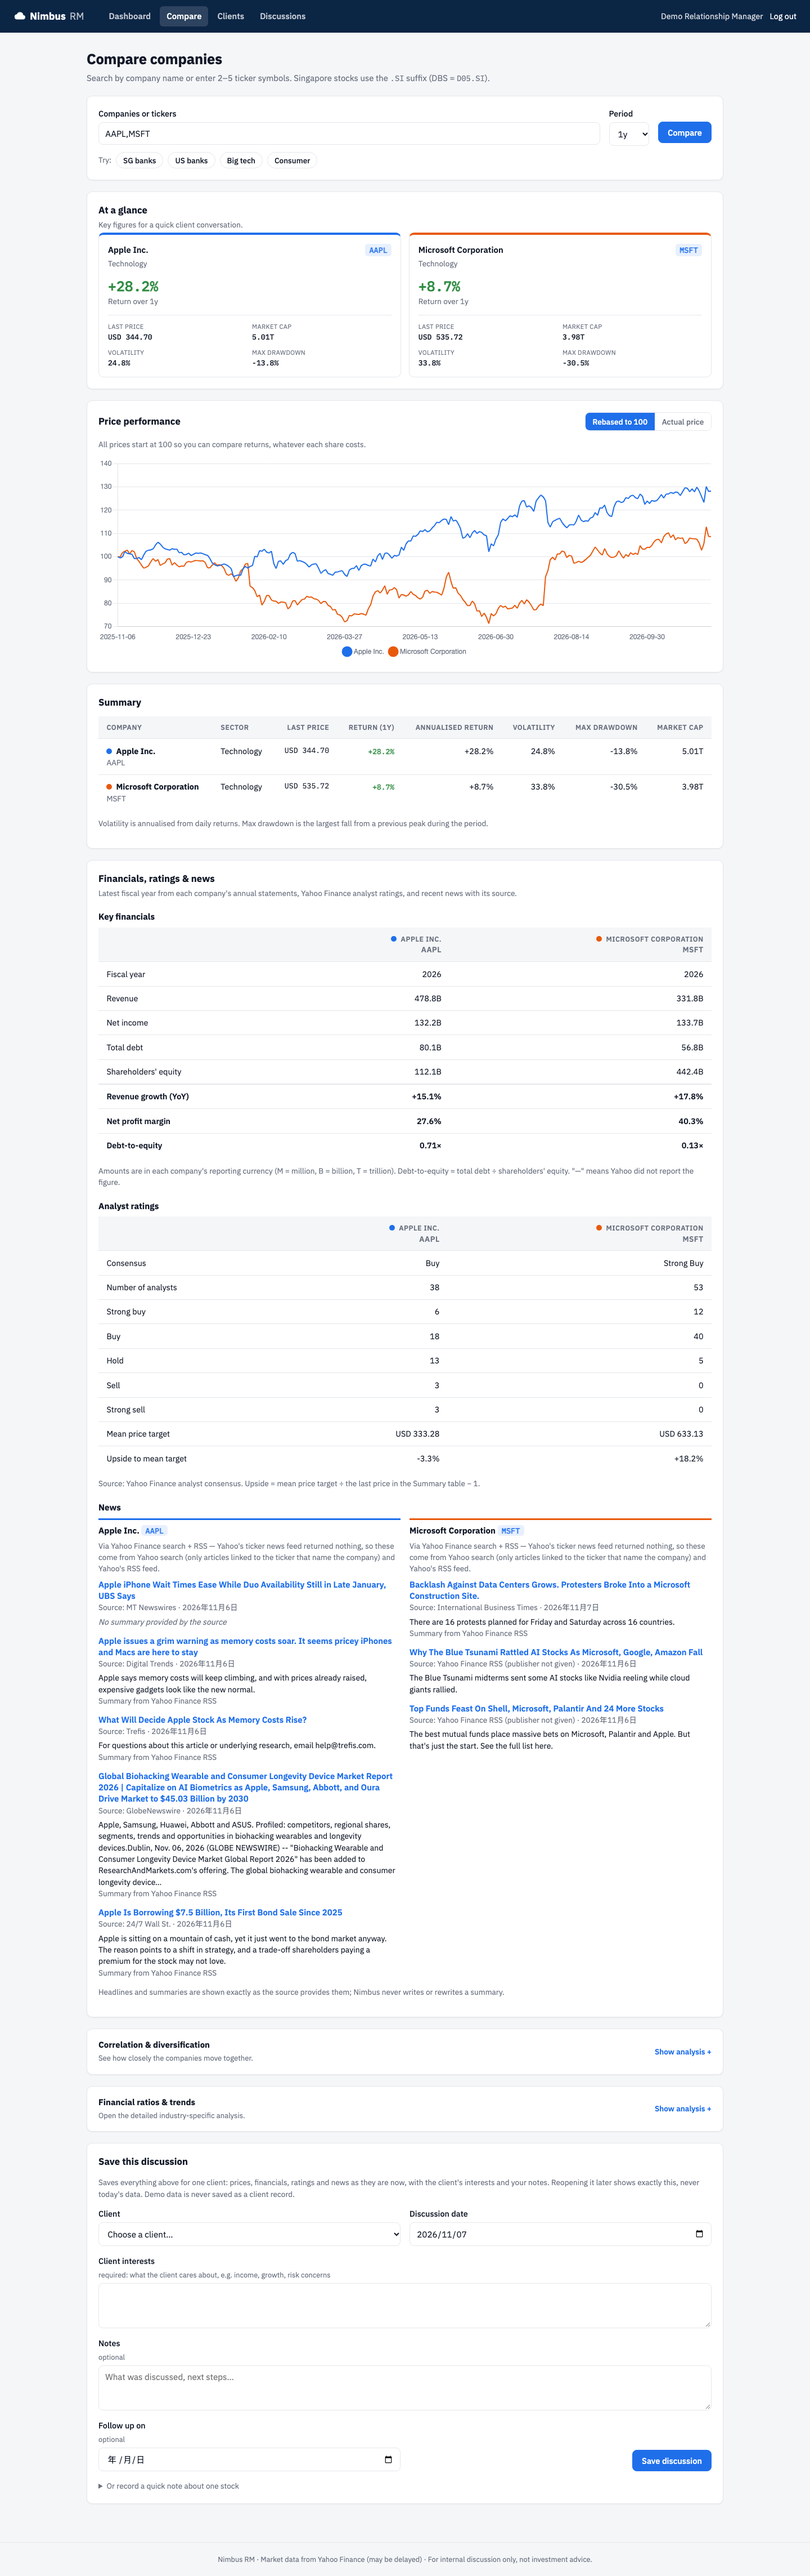
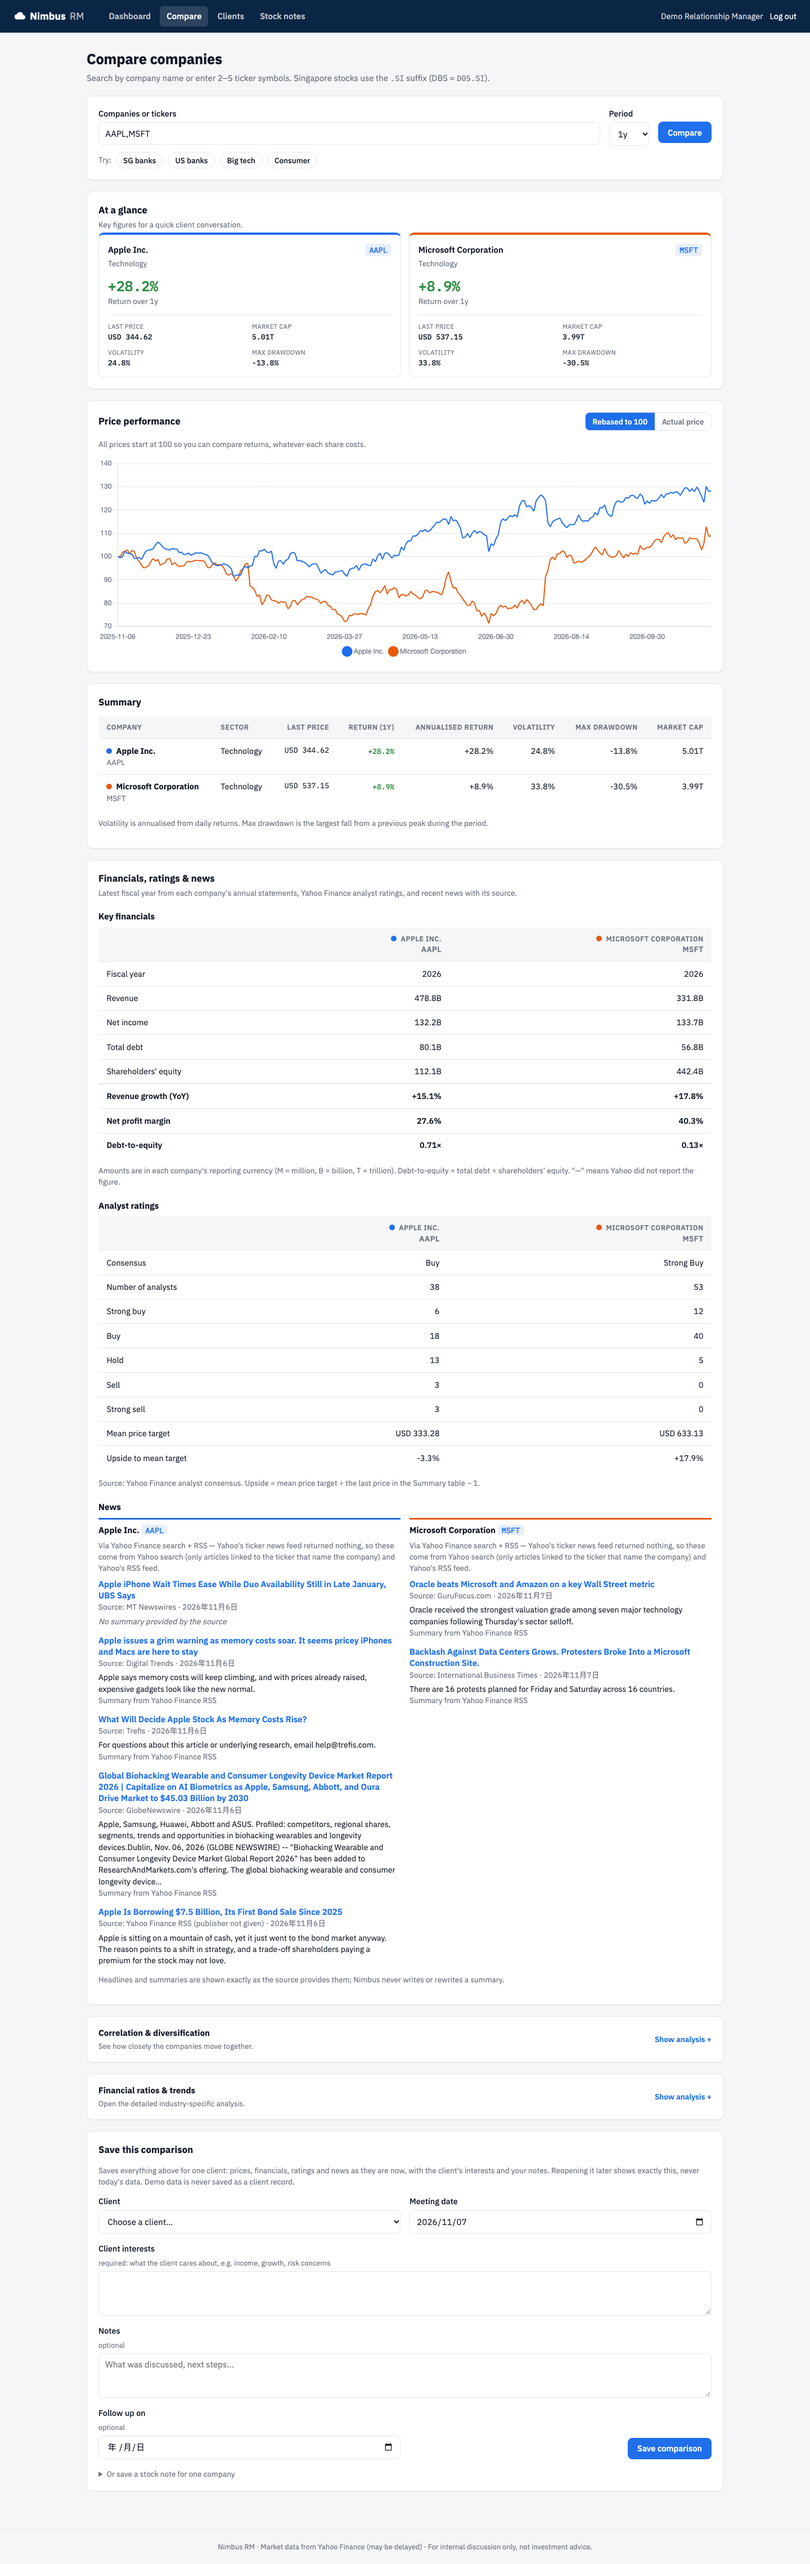
Clarify comparisons and stock notes terminology

diff --git a/app/templates/client_detail.html b/app/templates/client_detail.html
@@ -14,19 +14,19 @@
     {% if tickers|length >= 2 %}
       <a class="btn" href="{{ url_for('main.compare', tickers=tickers[:5]|join(',')) }}">Compare discussed stocks</a>
     {% endif %}
-    <a class="btn" href="{{ url_for('main.snapshot_new', client_id=client.id) }}">+ Discussion</a>
+    <a class="btn" href="{{ url_for('main.snapshot_new', client_id=client.id) }}">+ Stock note</a>
   </div>
 </div>
 
 <section class="card">
   <div class="section-head">
-    <h2>Saved discussions</h2>
+    <h2>Saved comparisons</h2>
     <a class="btn" href="{{ url_for('main.compare') }}">+ New comparison</a>
   </div>
   {% if client.discussions %}
   <div class="table-wrap">
     <table class="table">
-      <thead><tr><th>Date</th><th>Companies (price at discussion)</th><th>Client interests</th><th></th></tr></thead>
+      <thead><tr><th>Date</th><th>Companies (price at meeting)</th><th>Client interests</th><th></th></tr></thead>
       <tbody>
       {% for d in client.discussions %}
         <tr>
@@ -41,14 +41,14 @@
     </table>
   </div>
   {% else %}
-  <p class="muted">No saved discussions yet. Compare two or more companies and use "Save this discussion".</p>
+  <p class="muted">No saved comparisons yet. Compare two or more companies and use "Save this comparison".</p>
   {% endif %}
 </section>
 
 {% if client.snapshots %}
 <section class="card">
-  <h2>Discussions</h2>
-  <p class="muted small">Discussion compares the latest market price with the price when you spoke to the client — a quick talking point for the follow-up.</p>
+  <h2>Stock notes</h2>
+  <p class="muted small">Each note compares the latest market price with the price recorded for the client — a quick talking point for the follow-up.</p>
   <ol class="timeline">
   {% for s in client.snapshots %}
     {% set now = prices.get(s.ticker) %}
@@ -66,7 +66,7 @@
           {% if now %}
             <span>Now <b class="mono">{{ s.currency }} {{ now|money }}</b></span>
             {% set chg = (now / (s.price_at_discussion|float) - 1) %}
-            <span class="chg {{ 'up' if chg >= 0 else 'down' }}">{{ chg|pct(signed=True) }} since discussion</span>
+            <span class="chg {{ 'up' if chg >= 0 else 'down' }}">{{ chg|pct(signed=True) }} since recorded</span>
           {% endif %}
         </div>
         {% if s.notes %}<p class="notes">{{ s.notes }}</p>{% endif %}
@@ -75,7 +75,7 @@
           {% if s.follow_up_on %}<span class="follow {{ 'overdue' if s.follow_up_on < today }}">Follow up {{ s.follow_up_on.strftime('%d %b %Y') }}</span>{% endif %}
           <span class="spacer"></span>
           <a href="{{ url_for('main.snapshot_edit', snapshot_id=s.id) }}">Edit</a>
-          <form method="post" action="{{ url_for('main.snapshot_delete', snapshot_id=s.id) }}" onsubmit="return confirm('Delete this discussion?')">
+          <form method="post" action="{{ url_for('main.snapshot_delete', snapshot_id=s.id) }}" onsubmit="return confirm('Delete this stock note?')">
             <input type="hidden" name="_csrf" value="{{ csrf_token() }}">
             <button class="link danger">Delete</button>
           </form>
@@ -88,7 +88,7 @@
 {% endif %}
 
 <form method="post" action="{{ url_for('main.client_delete', client_id=client.id) }}" class="danger-zone"
-      onsubmit="return confirm('Delete {{ client.name }} and all their discussion records? This cannot be undone.')">
+      onsubmit="return confirm('Delete {{ client.name }} and all their saved comparisons and stock notes? This cannot be undone.')">
   <input type="hidden" name="_csrf" value="{{ csrf_token() }}">
   <button class="link danger">Delete this client</button>
 </form>

diff --git a/app/templates/discussion_detail.html b/app/templates/discussion_detail.html
@@ -1,9 +1,9 @@
 {% extends "base.html" %}
-{% block title %}Discussion with {{ d.client.name }}{% endblock %}
+{% block title %}Comparison for {{ d.client.name }}{% endblock %}
 {% block content %}
 <div class="page-head">
   <div>
-    <p class="crumb"><a href="{{ url_for('main.discussions') }}">Discussions</a> /</p>
+    <p class="crumb"><a href="{{ url_for('main.discussions') }}">Saved comparisons</a> /</p>
     <h1>{{ d.client.name }} · {{ d.discussed_on.strftime('%d %b %Y') }}</h1>
     <p class="muted"><a class="mono" href="{{ url_for('main.client_detail', client_id=d.client_id) }}">{{ d.client.client_code }}</a>
       · {{ d.companies | map(attribute='ticker') | join(', ') }} · period {{ d.period }}</p>
@@ -20,10 +20,10 @@
 </div>
 
 <section class="card">
-  <h2>Discussion record</h2>
+  <h2>Comparison record</h2>
   <dl class="record">
     <dt>Client</dt><dd>{{ d.client.label }}</dd>
-    <dt>Discussion date</dt><dd>{{ d.discussed_on.strftime('%d %b %Y') }}</dd>
+    <dt>Meeting date</dt><dd>{{ d.discussed_on.strftime('%d %b %Y') }}</dd>
     <dt>Client interests</dt><dd class="prewrap">{{ d.client_interests }}</dd>
     {% if d.notes %}<dt>Notes</dt><dd class="prewrap">{{ d.notes }}</dd>{% endif %}
     {% if d.follow_up_on %}<dt>Follow up on</dt><dd>{{ d.follow_up_on.strftime('%d %b %Y') }}</dd>{% endif %}
@@ -31,7 +31,7 @@
   </dl>
   <div class="table-wrap">
     <table class="table">
-      <thead><tr><th>Company</th><th class="num">Price at discussion</th><th>Price date</th>
+      <thead><tr><th>Company</th><th class="num">Price at meeting</th><th>Price date</th>
         <th class="num">Revenue growth</th><th class="num">Net margin</th><th class="num">Debt-to-equity</th><th>Fiscal year</th></tr></thead>
       <tbody>
       {% for c in d.companies %}
@@ -50,9 +50,9 @@
     </table>
   </div>
   <form method="post" action="{{ url_for('main.discussion_delete', discussion_id=d.id) }}" class="danger-zone"
-        onsubmit="return confirm('Delete this saved discussion? This cannot be undone.')">
+        onsubmit="return confirm('Delete this saved comparison? This cannot be undone.')">
     <input type="hidden" name="_csrf" value="{{ csrf_token() }}">
-    <button class="link danger">Delete this discussion</button>
+    <button class="link danger">Delete this comparison</button>
   </form>
 </section>
 

diff --git a/app/templates/dashboard.html b/app/templates/dashboard.html
@@ -16,10 +16,10 @@
   <a class="tile tile-link" href="{{ url_for('main.clients') }}" aria-label="View all clients">
     <div class="tile-label">Clients</div><div class="tile-value">{{ stats.clients }}</div><span class="tile-action">View clients →</span>
   </a>
-  <a class="tile tile-link" href="{{ url_for('main.discussions') }}" aria-label="View all saved discussions">
-    <div class="tile-label">Discussions saved</div><div class="tile-value">{{ stats.discussions }}</div><span class="tile-action">View discussions →</span>
+  <a class="tile tile-link" href="{{ url_for('main.discussions') }}" aria-label="View all saved comparisons">
+    <div class="tile-label">Saved comparisons</div><div class="tile-value">{{ stats.discussions }}</div><span class="tile-action">View comparisons →</span>
   </a>
-  <a class="tile tile-link" href="{{ url_for('main.discussions', date_from=month_start) }}" aria-label="View this month's discussions">
+  <a class="tile tile-link" href="{{ url_for('main.discussions', date_from=month_start) }}" aria-label="View this month's saved comparisons">
     <div class="tile-label">This month</div><div class="tile-value">{{ stats.this_month }}</div><span class="tile-action">View this month →</span>
   </a>
   <a class="tile tile-link {{ 'alert' if stats.due }}" href="{{ url_for('main.snapshots', follow_up='due') }}" aria-label="View follow-ups due">
@@ -47,11 +47,11 @@
       </li>
       {% endfor %}
     </ul>
-    {% else %}<p class="muted">No follow-ups scheduled. Add a follow-up date when you record a discussion.</p>{% endif %}
+    {% else %}<p class="muted">No follow-ups scheduled. Add a follow-up date when you record a stock note.</p>{% endif %}
   </section>
 
   <section class="card">
-    <h2>Recent discussions</h2>
+    <h2>Recent comparisons</h2>
     {% if recent %}
     <ul class="list">
       {% for d in recent %}
@@ -63,7 +63,7 @@
       {% endfor %}
     </ul>
     {% else %}
-    <p class="muted">Nothing saved yet. <a href="{{ url_for('main.compare') }}">Compare companies and save a discussion</a>.</p>
+    <p class="muted">Nothing saved yet. <a href="{{ url_for('main.compare') }}">Compare companies and save a comparison</a>.</p>
     {% endif %}
   </section>
 </div>

diff --git a/app/templates/compare.html b/app/templates/compare.html
@@ -42,9 +42,9 @@
 <div id="results" hidden>
   {% include "_comparison_results.html" %}
 
-  <!-- 6. Save the whole comparison as a client discussion (Features 3–5) -->
+  <!-- 6. Save the whole comparison for a client (Features 3–5) -->
   <section class="card" id="save-card">
-    <h2>Save this discussion</h2>
+    <h2>Save this comparison</h2>
     <p class="muted small">Saves everything above for one client: prices, financials, ratings and news as they are now, with the client's interests and your notes. Reopening it later shows exactly this, never today's data. Demo data is never saved as a client record.</p>
     <form method="post" action="{{ url_for('main.discussion_save') }}" id="save-form" class="form save-form">
       <input type="hidden" name="_csrf" value="{{ csrf_token() }}">
@@ -63,7 +63,7 @@
             {% for c in clients %}<option value="{{ c.id }}">{{ c.label }}</option>{% endfor %}
             <option value="__new__" {{ 'selected' if not clients }}>+ New client…</option>
           </select></label>
-        <label>Discussion date
+        <label>Meeting date
           <input type="date" name="discussed_on" value="{{ today.isoformat() }}" required></label>
       </div>
       <fieldset id="new-client" class="subfields" hidden>
@@ -77,11 +77,11 @@
       <div class="form-row">
         <label>Follow up on <span class="hint">optional</span>
           <input type="date" name="follow_up_on"></label>
-        <div class="form-actions align-end"><button class="btn primary" id="save-button">Save discussion</button></div>
+        <div class="form-actions align-end"><button class="btn primary" id="save-button">Save comparison</button></div>
       </div>
     </form>
     <details class="single-notes">
-      <summary class="muted small">Or record a quick note about one stock</summary>
+      <summary class="muted small">Or save a stock note for one company</summary>
       <div id="save-buttons" class="chips"></div>
     </details>
   </section>

diff --git a/app/templates/snapshot_form.html b/app/templates/snapshot_form.html
@@ -26,7 +26,7 @@
   <div class="form-row">
     <label>Ticker
       <input name="ticker" id="ticker" value="{{ form.get('ticker','') }}" placeholder="e.g. D05.SI" required autocomplete="off" style="text-transform:uppercase"></label>
-    <label>Price at discussion <span class="hint">leave blank to use the latest live price; a typed price is saved as "Entered by RM"</span>
+    <label>Price at discussion <span class="hint">leave blank to fetch the latest live price automatically; if you enter a price, its source will be labelled "Entered by RM"</span>
       <div class="input-btn">
         <input name="price" id="price" inputmode="decimal" value="{{ form.get('price','') }}">
         <button type="button" class="btn" id="fetch-price">Get price</button>
@@ -35,7 +35,7 @@
   <p class="muted small" id="quote-info"></p>
 
   <div class="form-row">
-    <label>Date of discussion <input type="date" name="discussed_on" value="{{ form.get('discussed_on') or today.isoformat() }}"></label>
+    <label>Date discussed with client <input type="date" name="discussed_on" value="{{ form.get('discussed_on') or today.isoformat() }}"></label>
     <label>Client interest
       <select name="interest_level">
         {% for l in levels %}<option {{ 'selected' if (form.get('interest_level') or 'Medium') == l }}>{{ l }}</option>{% endfor %}
@@ -51,7 +51,7 @@
 
   <div class="form-actions">
     <a class="btn" href="{{ url_for('main.snapshots') }}">Cancel</a>
-    <button class="btn primary">{{ 'Save changes' if snap else 'Save discussion' }}</button>
+    <button class="btn primary">{{ 'Save changes' if snap else 'Save stock note' }}</button>
   </div>
 </form>
 {% endblock %}

diff --git a/app/templates/discussions.html b/app/templates/discussions.html
@@ -1,8 +1,8 @@
 {% extends "base.html" %}
-{% block title %}Discussions{% endblock %}
+{% block title %}Saved comparisons{% endblock %}
 {% block content %}
 <div class="page-head">
-  <div><h1>Saved discussions</h1>
+  <div><h1>Saved comparisons</h1>
     <p class="muted">Every saved comparison with its client interests. Search by client, company or date, then open one to see it exactly as it was saved.</p></div>
   <div class="actions"><a class="btn primary" href="{{ url_for('main.compare') }}">+ New comparison</a></div>
 </div>
@@ -25,7 +25,7 @@
 {% if rows %}
 <div class="card table-wrap">
   <table class="table">
-    <thead><tr><th>Date</th><th>Client</th><th>Companies (price at discussion)</th><th>Client interests</th><th></th></tr></thead>
+    <thead><tr><th>Date</th><th>Client</th><th>Companies (price at meeting)</th><th>Client interests</th><th></th></tr></thead>
     <tbody>
     {% for d in rows %}
       <tr>
@@ -45,8 +45,8 @@
 </div>
 {% else %}
 <div class="empty card">
-  <p>No saved discussions match.</p>
-  <a class="btn primary" href="{{ url_for('main.compare') }}">Compare companies and save a discussion</a>
+  <p>No saved comparisons match.</p>
+  <a class="btn primary" href="{{ url_for('main.compare') }}">Compare companies and save a comparison</a>
 </div>
 {% endif %}
 {% endblock %}

diff --git a/app/templates/snapshots.html b/app/templates/snapshots.html
@@ -2,10 +2,10 @@
 {% block title %}Stock notes{% endblock %}
 {% block content %}
 <div class="page-head">
-  <div><h1>Discussions</h1><p class="muted">Discussions about stocks for a client. To save a full comparison, use <a href="{{ url_for('main.compare') }}">Compare</a> → Save this discussion.</p></div>
+  <div><h1>Stock notes</h1><p class="muted">Quick notes about individual stocks for a client. To save a complete multi-company comparison, go to <a href="{{ url_for('main.compare') }}">Compare</a> → Save comparison.</p></div>
   <div class="actions">
     <a class="btn" href="{{ url_for('main.snapshots_export', **args) }}">Export CSV</a>
-    <a class="btn primary" href="{{ url_for('main.snapshot_new') }}">+ Discussion</a>
+    <a class="btn primary" href="{{ url_for('main.snapshot_new') }}">+ Stock note</a>
   </div>
 </div>
 
@@ -71,8 +71,8 @@
     </tbody>
   </table>
 </div>
-<p class="muted small">{{ rows|length }} discussion{{ 's' if rows|length != 1 }} shown.</p>
+<p class="muted small">{{ rows|length }} stock note{{ 's' if rows|length != 1 }} shown.</p>
 {% else %}
-<div class="empty card"><p>No discussions match these filters.</p></div>
+<div class="empty card"><p>No stock notes match these filters.</p></div>
 {% endif %}
 {% endblock %}

diff --git a/app/static/js/compare.js b/app/static/js/compare.js
@@ -442,7 +442,7 @@
     $('save-buttons').innerHTML = state.data.companies.map((c) => {
       // No price in the link: the server fetches the live price when the RM saves.
       const url = `${window.NIMBUS.newSnapshotUrl}?ticker=${encodeURIComponent(c.ticker)}`;
-      return `<a class="chip accent" href="${url}">Save ${esc(companyLabel(c))}</a>`;
+      return `<a class="chip accent" href="${url}">Add ${esc(c.ticker)} note</a>`;
     }).join('');
   }
 
@@ -517,7 +517,7 @@
     // shows the record already saved instead of creating another.
     window.addEventListener('pageshow', () => {
       $('save-button').disabled = false;
-      $('save-button').textContent = 'Save discussion';
+      $('save-button').textContent = 'Save comparison';
     });
     // Save sends the exact figures on screen (signed by the server) and a one-time ID,
     // so the record equals the screen and one click is stored once.

diff --git a/app/templates/base.html b/app/templates/base.html
@@ -22,7 +22,7 @@
     <a href="{{ url_for('main.dashboard') }}" class="{{ 'active' if ep == 'main.dashboard' }}">Dashboard</a>
     <a href="{{ url_for('main.compare') }}" class="{{ 'active' if ep == 'main.compare' }}">Compare</a>
     <a href="{{ url_for('main.clients') }}" class="{{ 'active' if ep.startswith('main.client') }}">Clients</a>
-    <a href="{{ url_for('main.snapshots') }}" class="{{ 'active' if ep.startswith('main.snapshot') }}">Discussions</a>
+    <a href="{{ url_for('main.snapshots') }}" class="{{ 'active' if ep.startswith('main.snapshot') }}">Stock notes</a>
   </nav>
   <div class="user">
     <span>{{ g.user.full_name }}</span>

diff --git a/app/templates/clients.html b/app/templates/clients.html
@@ -9,7 +9,7 @@
 {% if rows %}
 <div class="card table-wrap">
   <table class="table">
-    <thead><tr><th>Code</th><th>Name</th><th>Segment</th><th>Risk profile</th><th class="num">Discussions</th><th>Last spoke</th></tr></thead>
+    <thead><tr><th>Code</th><th>Name</th><th>Segment</th><th>Risk profile</th><th class="num">Stock notes</th><th>Last spoke</th></tr></thead>
     <tbody>
     {% for c, n_notes, last in rows %}
       <tr class="clickable" onclick="location.href='{{ url_for('main.client_detail', client_id=c.id) }}'">

diff --git a/app/routes.py b/app/routes.py
@@ -72,7 +72,7 @@ def dashboard():
     stats = {
         "clients": Client.query.filter_by(rm_id=g.user.id).count(),
         "snapshots": base.count(),
-        # Saved discussions (Features 3–5) are the main record; stock notes are counted separately.
+        # Saved comparisons (Features 3–5) are the main record; stock notes are counted separately.
         "discussions": Discussion.query.filter_by(rm_id=g.user.id).count(),
         "this_month": Discussion.query.filter(Discussion.rm_id == g.user.id,
                                               Discussion.discussed_on >= today.replace(day=1)).count(),
@@ -111,7 +111,7 @@ def compare():
 @bp.route("/clients")
 @login_required
 def clients():
-    # Saved discussions and stock notes are counted separately; "last spoke" is the
+    # Saved comparisons and stock notes are counted separately; "last spoke" is the
     # latest date from either.
     disc = (db.session.query(Discussion.client_id,
                              func.max(Discussion.discussed_on).label("last"))
@@ -316,7 +316,7 @@ def snapshot_new():
                                    levels=Snapshot.INTEREST_LEVELS, today=local_today())
         db.session.add(snap)
         db.session.commit()
-        flash(f"Saved discussion with {snap.client.label} about {snap.ticker}.", "success")
+        flash(f"Saved stock note for {snap.client.label} about {snap.ticker}.", "success")
         return redirect(url_for("main.client_detail", client_id=snap.client_id))
     # The price is never taken from the URL: it is fetched live on save, or typed by the RM.
     prefill = {"ticker": request.args.get("ticker", ""), "client_id": request.args.get("client_id", "")}
@@ -336,7 +336,7 @@ def snapshot_edit(snapshot_id):
             flash(error, "error")
         else:
             db.session.commit()
-            flash("Discussion updated.", "success")
+            flash("Stock note updated.", "success")
             return redirect(url_for("main.client_detail", client_id=snap.client_id))
     form = {
         "ticker": snap.ticker, "price": snap.price_at_discussion, "client_id": str(snap.client_id),

diff --git a/app/discussions.py b/app/discussions.py
@@ -156,7 +156,7 @@ def _already_saved(submission_id):
 
 
 def _show_existing(existing):
-    flash("This discussion was already saved; showing the saved record.", "info")
+    flash("This comparison was already saved; showing the saved record.", "info")
     return redirect(url_for("main.discussion_detail", discussion_id=existing.id))
 
 
@@ -186,10 +186,10 @@ def discussion_save():
         existing = _already_saved(submission_id)
         if existing:
             return _show_existing(existing)
-        flash("The discussion could not be saved (a client with that code was just created). " + COMPARE_AGAIN, "error")
+        flash("The comparison could not be saved (a client with that code was just created). " + COMPARE_AGAIN, "error")
         return redirect(url_for("main.compare", tickers=request.form.get("tickers", ""),
                                 period=request.form.get("period", "1y")))
-    flash(f"Saved the discussion with {discussion.client.label}. This is the record as saved; "
+    flash(f"Saved the comparison for {discussion.client.label}. This is the record as saved; "
           "reopening it never fetches new data.", "success")
     return redirect(url_for("main.discussion_detail", discussion_id=discussion.id))
 
@@ -238,5 +238,5 @@ def discussion_delete(discussion_id):
     label = d.client.label
     db.session.delete(d)
     db.session.commit()
-    flash(f"Deleted the discussion with {label}.", "success")
+    flash(f"Deleted the comparison for {label}.", "success")
     return redirect(url_for("main.discussions"))
